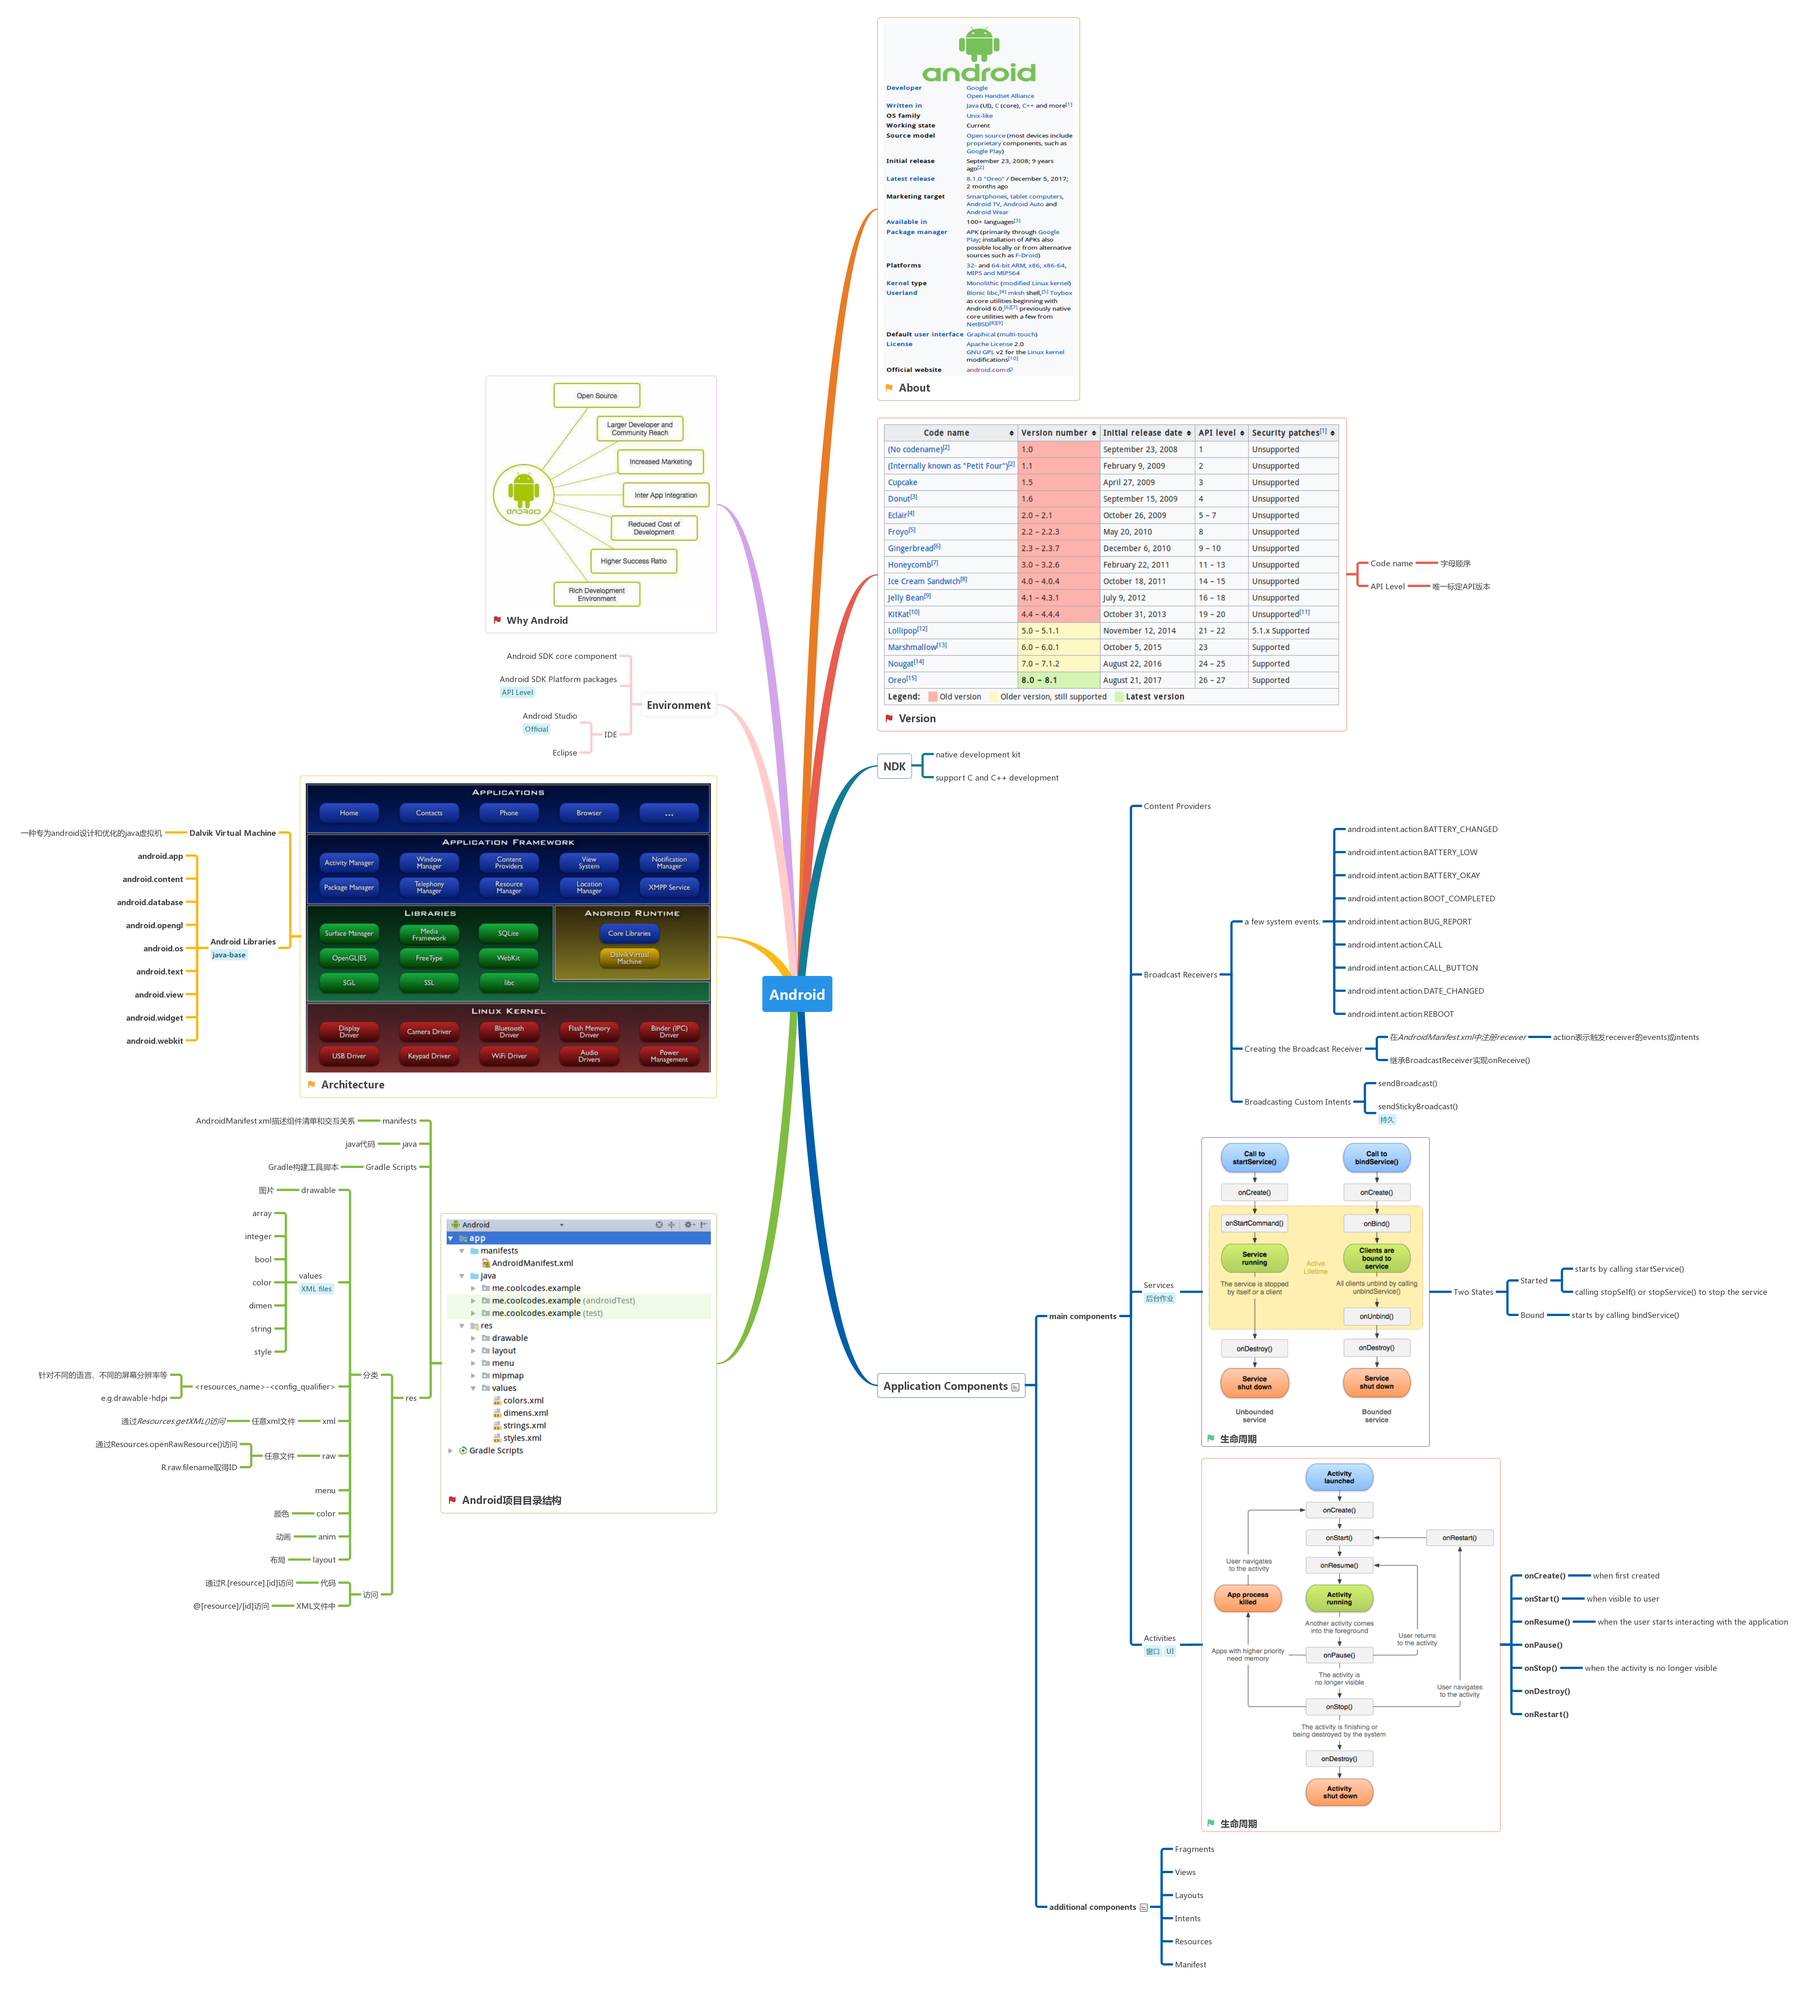
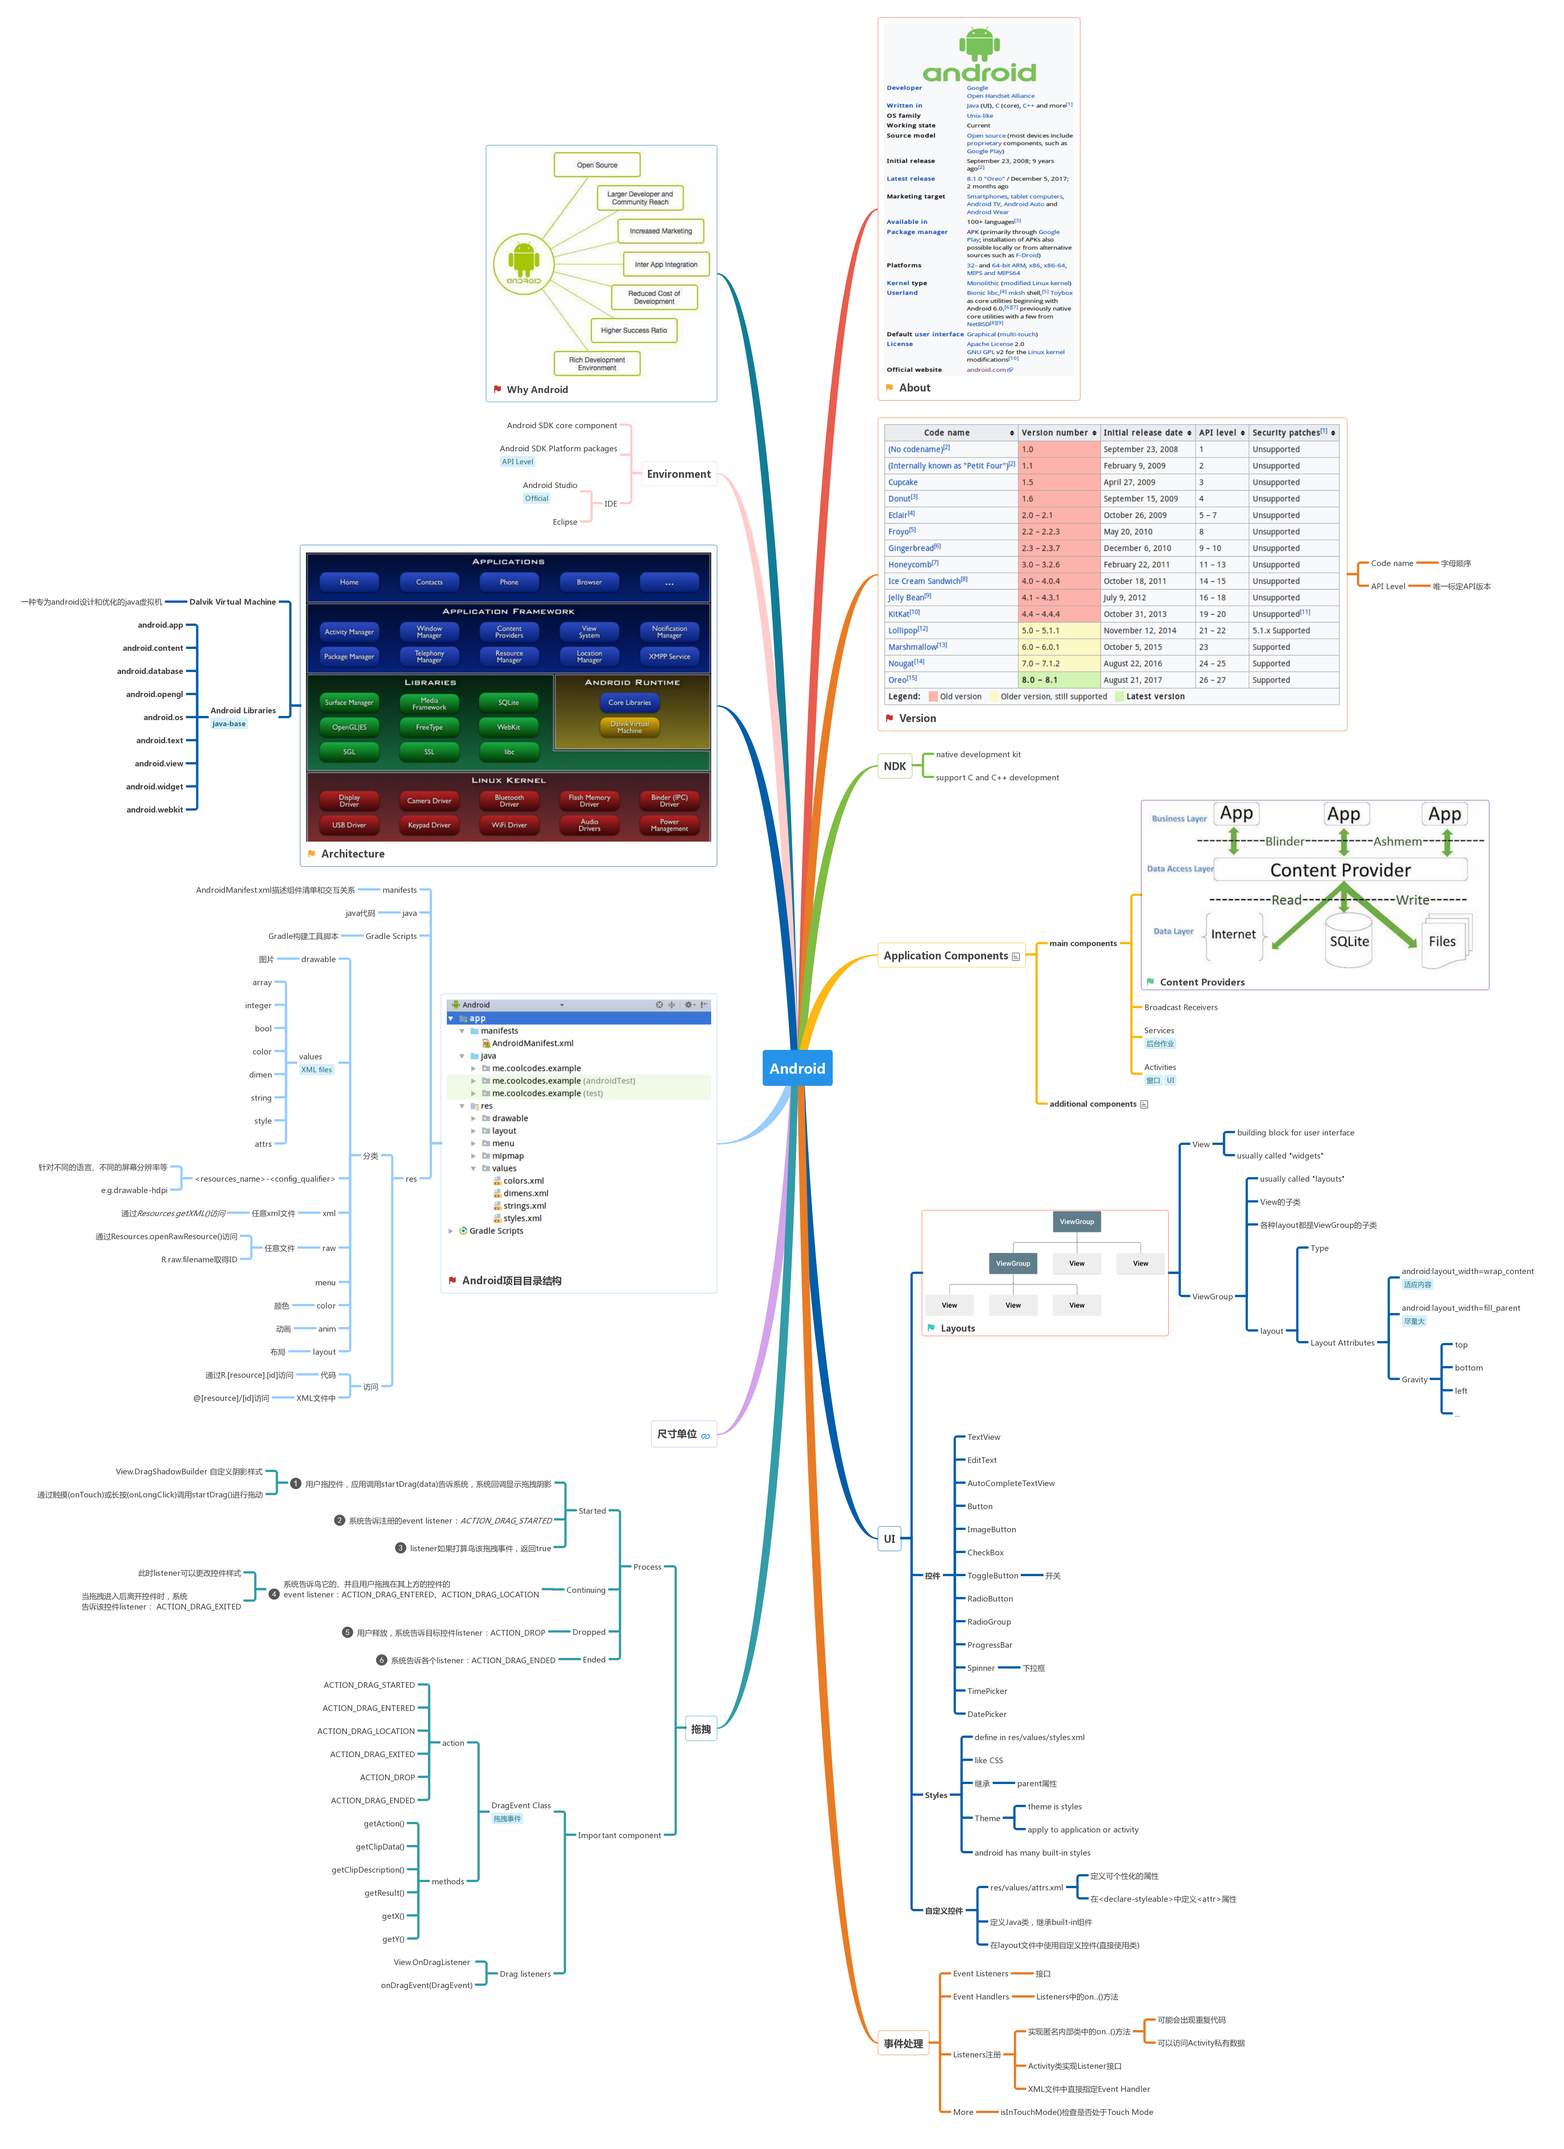
update Android

diff --git a/Front-End/Android/README.md b/Front-End/Android/README.md
@@ -5,3 +5,5 @@
 [![Android](./Android.png)点击查看完整图](https://www.processon.com/embed/mind/5a93b145e4b083b04399ef4d)
 
 # Resource
+
+- [What is the difference between “px”, “dip”, “dp” and “sp”?](https://stackoverflow.com/questions/2025283/what-is-the-difference-between-px-dip-dp-and-sp)
